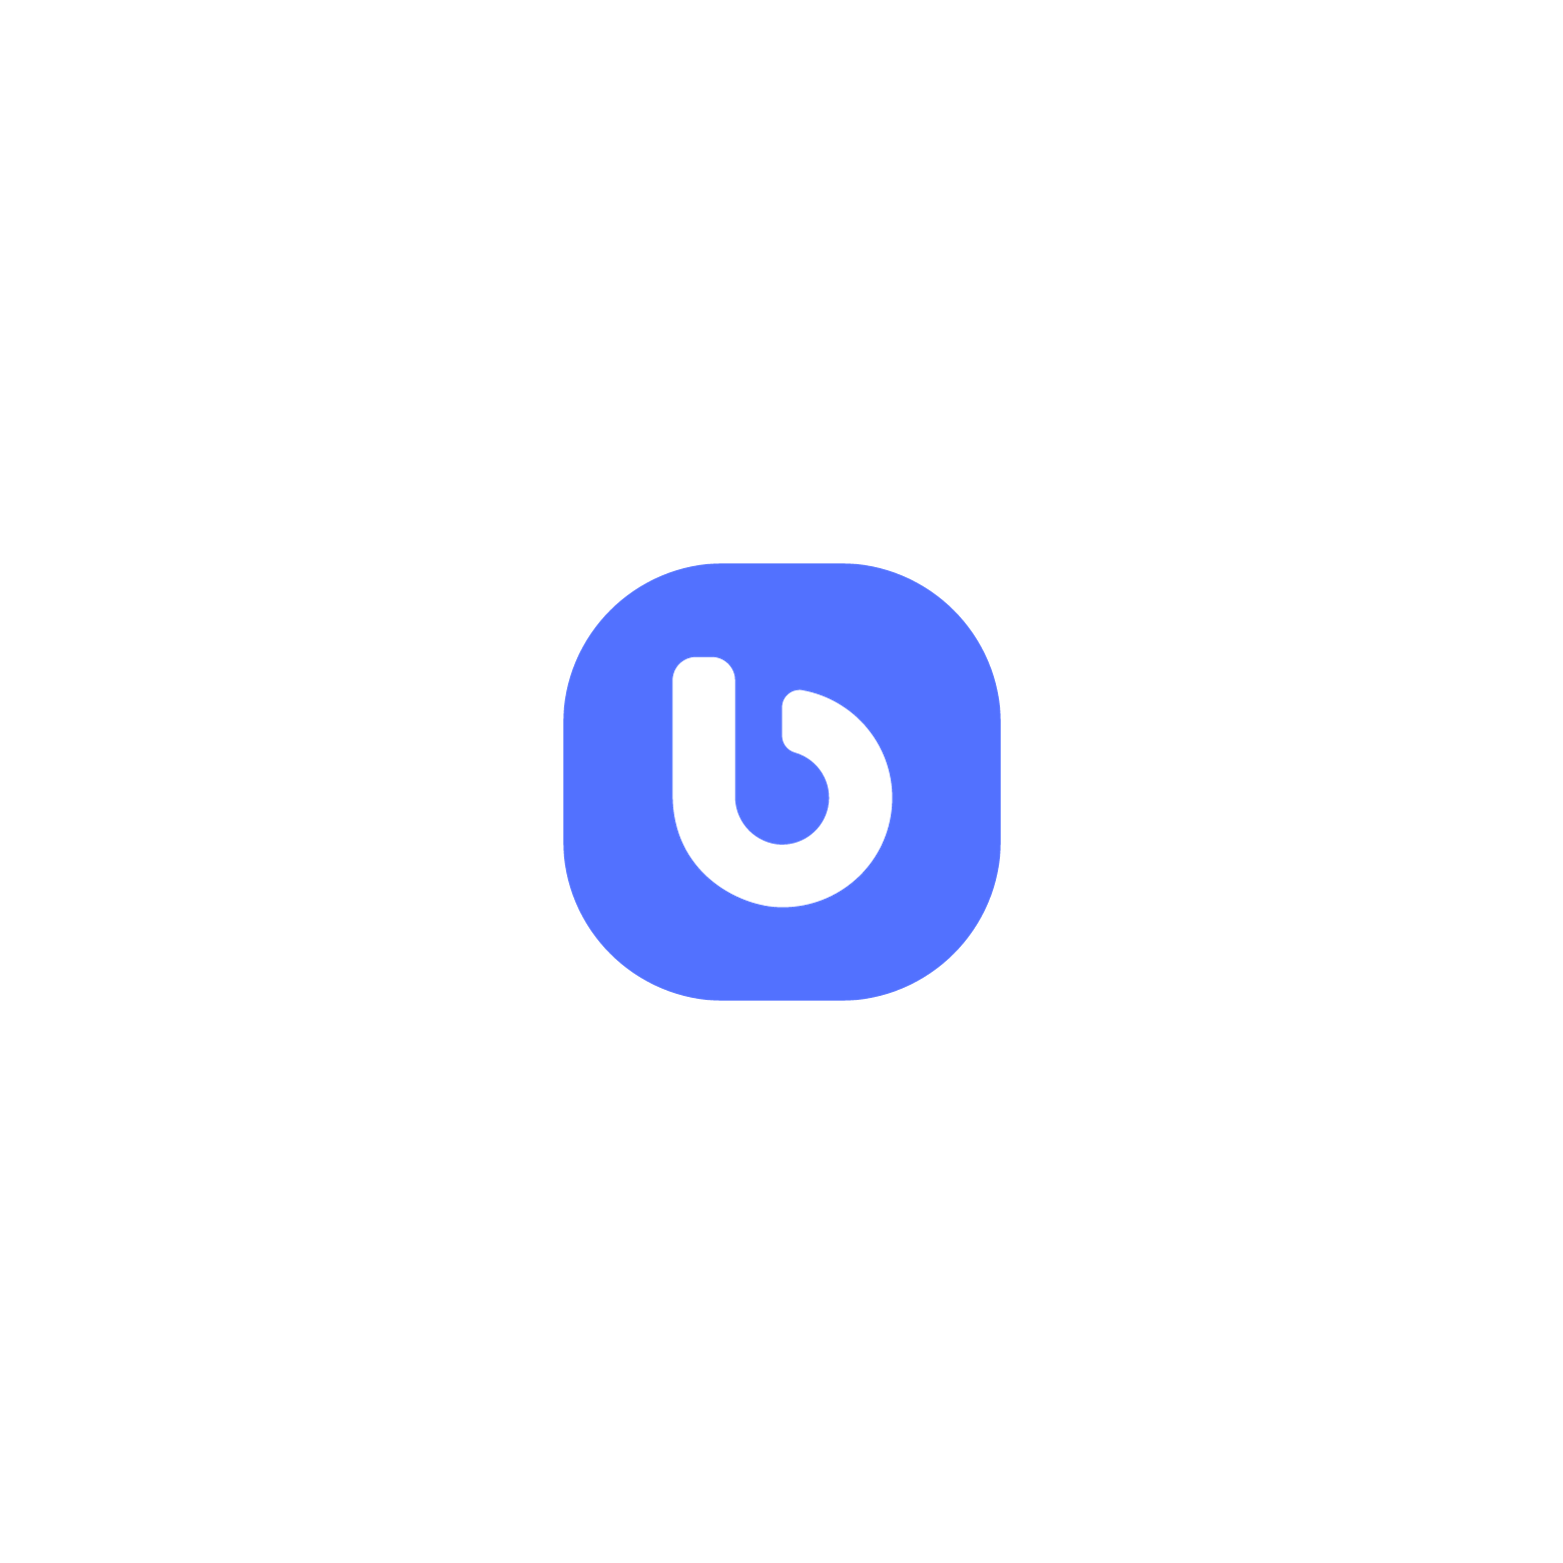
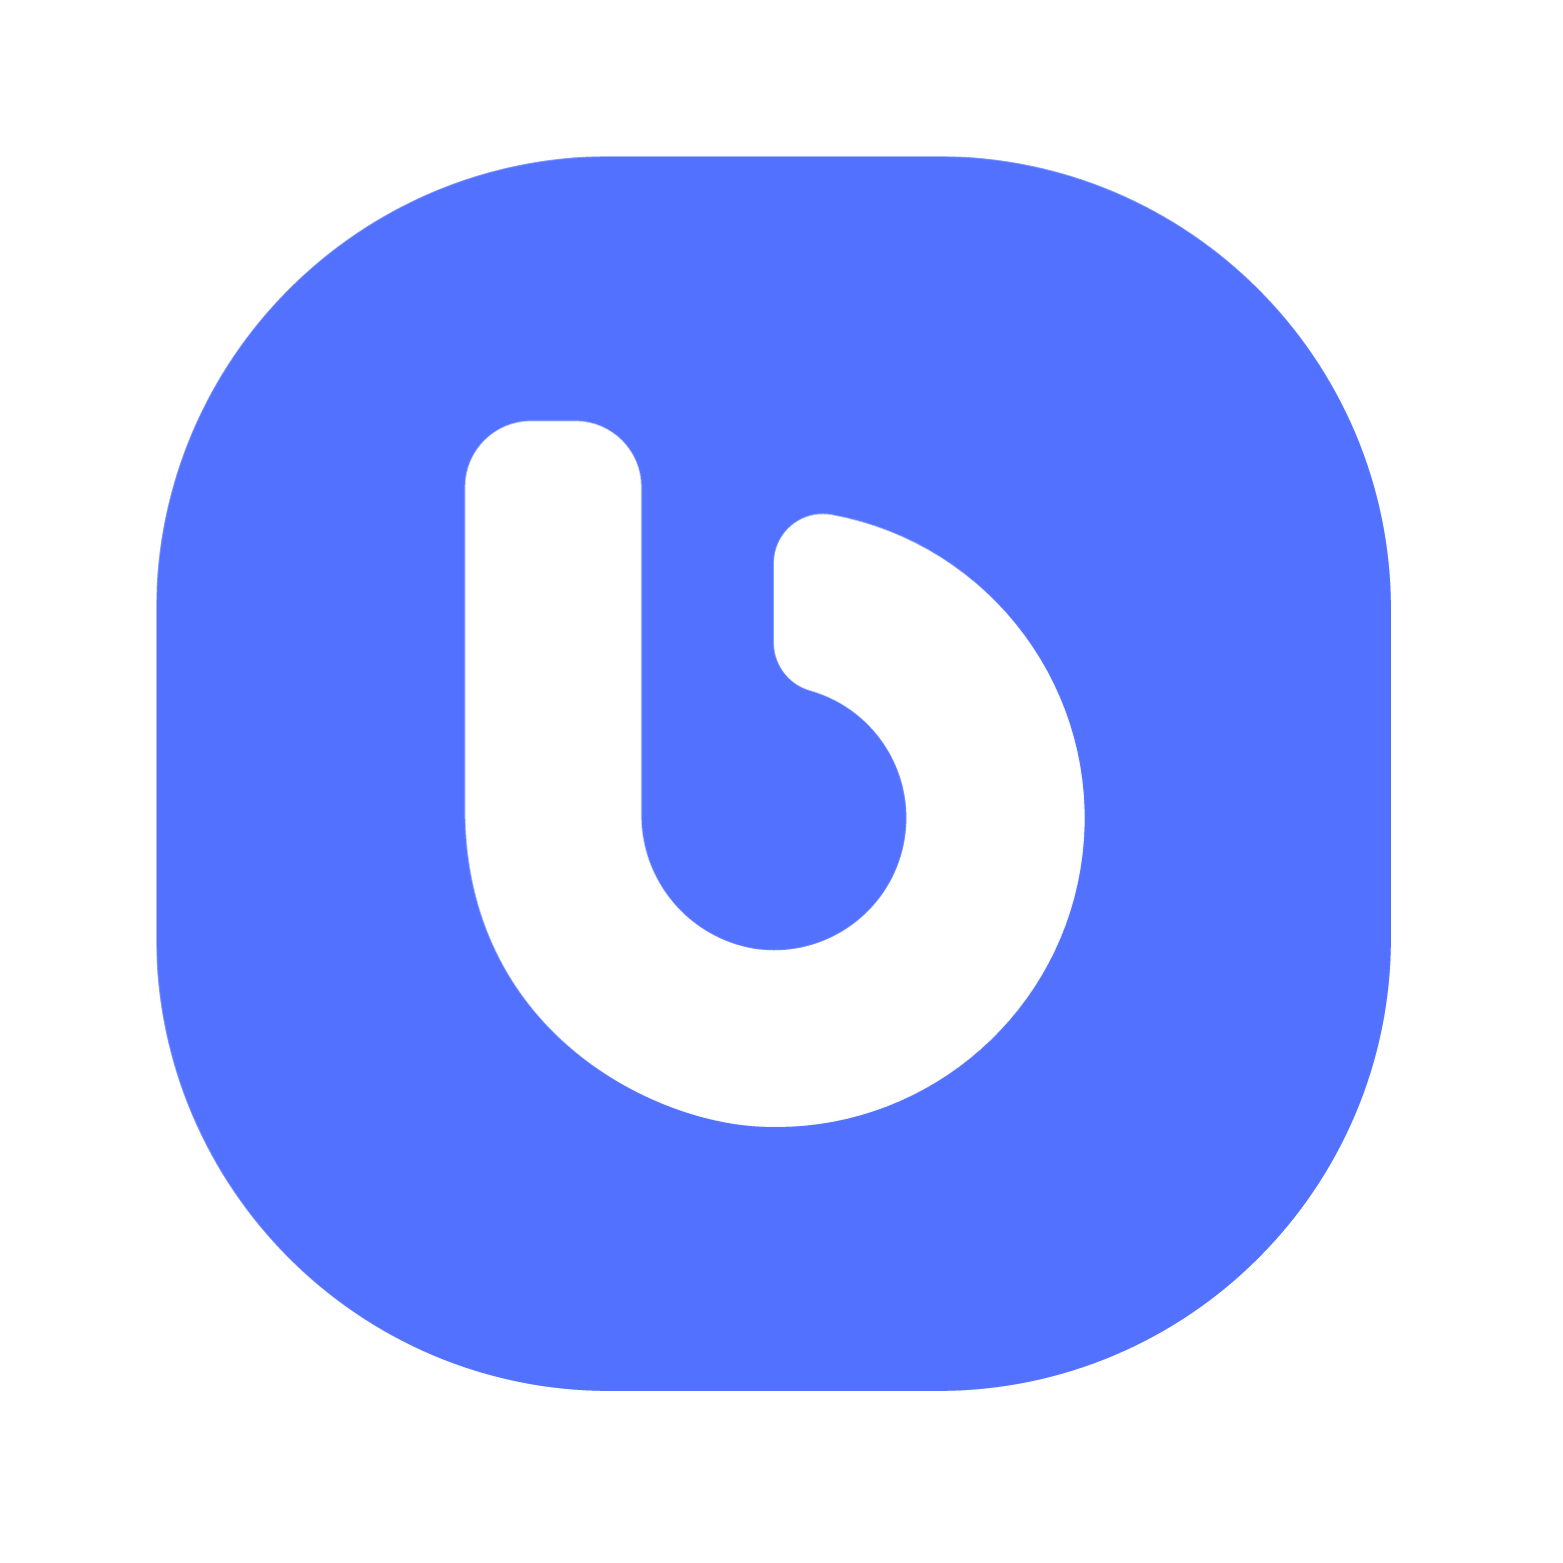
Segundo commit: Cambio al icono de login

diff --git a/lib/pages/login_page.dart b/lib/pages/login_page.dart
@@ -3,6 +3,7 @@ import '../components/button.dart';
 import '../components/textfield.dart';
 import '../theme/colors.dart';
 import 'home_page.dart';
+import 'package:flutter/widgets.dart';
 
 /*
 
@@ -47,10 +48,11 @@ class _LoginPageState extends State<LoginPage> {
           child: Column(
             mainAxisAlignment: MainAxisAlignment.center,
             children: [
-              // logo
-              const Icon(
-                Icons.person,
-                size: 80,
+              // Cambia Icon por Image.asset
+              Image.asset(
+                'assets/images/icon.png',  // Ruta de la imagen
+                width: 80,
+                height: 80,
                 color: Colors.white,
               ),
 

diff --git a/lib/pages/home_page.dart b/lib/pages/home_page.dart
@@ -24,7 +24,7 @@ class _HomePageState extends State<HomePage> {
       appBar: AppBar(
         title: const Text("Inicio"),
         backgroundColor: primaryColor,
-        elevation: 0,
+        elevation: 4,
       ),
       backgroundColor: backgroundColor,
       drawer: Drawer(
@@ -39,7 +39,7 @@ class _HomePageState extends State<HomePage> {
                   child: Icon(
                     Icons.favorite,
                     color: Colors.white,
-                    size: 36,
+                    size: 30,
                   ),
                 ),
 
